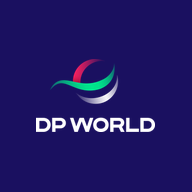
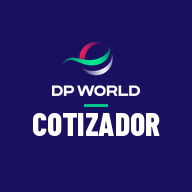
Íconos de app instalada iguales en todas (kit/pwa/generar_iconos.py)
Mismo fondo índigo, logo DP World, línea verde y nombre corto de la app en Barlow Condensed. Se sube la versión de caché del service worker para que tomen los íconos nuevos.

Claude-Session: https://claude.ai/code/session_016HvEN8KWBxrFoq9wy1oQZd

Changed region(s): [[0.1562, 0.2188, 0.8438, 0.7188]]

diff --git a/sw.js b/sw.js
@@ -2,7 +2,7 @@
 // Permite instalar la app y abrirla sin conexión. La app se pide primero a la red (siempre la versión publicada);
 // la copia guardada solo se usa sin conexión. Supabase nunca se guarda: los datos van siempre al servidor.
 // Al publicar un cambio grande, sube la versión de CACHE.
-const CACHE = 'cotizador-v1';
+const CACHE = 'cotizador-v2';
 const BASE = ['./', './index.html', './manifest.webmanifest', './dpw/dpw-shell.css', './dpw/dpw-shell.js', './dpw/dpw-escenas.js',
   './dpw/assets/dpworld-logo-fondo-claro.png', './dpw/pwa/icon-192.png', './dpw/pwa/icon-512.png'];
 

diff --git a/.claude/skills/linea-grafica/kit/pwa/generar_iconos.py b/.claude/skills/linea-grafica/kit/pwa/generar_iconos.py
@@ -1,0 +1,60 @@
+"""Íconos de app instalable, iguales para todas las apps DP World Panamá (skill linea-grafica).
+
+Mismo fondo índigo #1A1060, logo DP World en blanco, línea verde #00C389 y el nombre corto de la app
+en Barlow Condensed 800 mayúsculas. Todo dentro de la zona segura de los íconos «maskable».
+
+Uso:  python3 generar_iconos.py "HORAS" carpeta_destino
+Genera icon-512.png, icon-192.png, apple-touch-icon.png (180) y favicon-32.png.
+"""
+import os, sys
+from PIL import Image, ImageDraw, ImageFont
+
+AQUI = os.path.dirname(os.path.abspath(__file__))
+INDIGO, VERDE, BLANCO = (26, 16, 96), (0, 195, 137), (255, 255, 255)
+
+
+def icono(nombre, lado=512):
+    im = Image.new("RGBA", (lado, lado), INDIGO + (255,))
+    d = ImageDraw.Draw(im)
+    logo = Image.open(os.path.join(AQUI, "..", "assets", "dpworld-logo-fondo-oscuro.png")).convert("RGBA")
+    ancho = int(lado * 0.46)
+    logo = logo.resize((ancho, int(logo.height * ancho / logo.width)), Image.LANCZOS)
+    y_logo = int(lado * 0.22)
+    im.alpha_composite(logo, ((lado - ancho) // 2, y_logo))
+    # línea verde bajo el logo
+    y_lin = y_logo + logo.height + int(lado * 0.045)
+    d.rectangle([(lado - lado * 0.12) / 2, y_lin, (lado + lado * 0.12) / 2, y_lin + max(2, lado * 0.012)], fill=VERDE)
+    # nombre corto: el tamaño se ajusta para no salir de la zona segura (72 % del ancho)
+    fuente_ruta = os.path.join(AQUI, "barlow-condensed-800.woff")
+    t = int(lado * 0.17)
+    while True:
+        f = ImageFont.truetype(fuente_ruta, t)
+        caja = d.textbbox((0, 0), nombre, font=f)
+        if caja[2] - caja[0] <= lado * 0.72 or t < 8:
+            break
+        t -= 2
+    w = caja[2] - caja[0]
+    d.text(((lado - w) / 2 - caja[0], y_lin + int(lado * 0.05) - caja[1]), nombre, font=f, fill=BLANCO)
+    return im
+
+
+def generar(nombre, destino):
+    os.makedirs(destino, exist_ok=True)
+    grande = icono(nombre.upper(), 512)
+    grande.convert("RGB").save(os.path.join(destino, "icon-512.png"))
+    for archivo, lado in (("icon-192.png", 192), ("apple-touch-icon.png", 180)):
+        icono(nombre.upper(), lado).convert("RGB").save(os.path.join(destino, archivo))
+    # favicon: solo el fondo índigo y la línea verde con la inicial, legible a 32 px
+    fav = Image.new("RGB", (32, 32), INDIGO)
+    d = ImageDraw.Draw(fav)
+    f = ImageFont.truetype(os.path.join(AQUI, "barlow-condensed-800.woff"), 24)
+    c = d.textbbox((0, 0), nombre[0].upper(), font=f)
+    d.text(((32 - (c[2] - c[0])) / 2 - c[0], 3 - c[1] + 2), nombre[0].upper(), font=f, fill=BLANCO)
+    d.rectangle([9, 27, 23, 28], fill=VERDE)
+    fav.save(os.path.join(destino, "favicon-32.png"))
+
+
+if __name__ == "__main__":
+    if len(sys.argv) != 3:
+        sys.exit(__doc__)
+    generar(sys.argv[1], sys.argv[2])

diff --git a/.claude/skills/linea-grafica/SKILL.md b/.claude/skills/linea-grafica/SKILL.md
@@ -17,7 +17,7 @@ El kit está en `kit/` junto a este archivo:
 | `dpw-mapa.js` | Escena `mapa` (Panamá y rutas a 14 puertos). Solo la cargan las apps que la usan (35 KB). |
 | `plantilla.html` | Ejemplo completo y vista previa: `plantilla.html?escena=patio`, `&login=0`, `&tema=light`. |
 | `assets/` | Logos para fondo claro y oscuro. |
-| `pwa/` | `sw.js` y `manifest.webmanifest` de partida, íconos de la app (192, 512, Apple) y favicon. |
+| `pwa/` | `sw.js` y `manifest.webmanifest` de partida y `generar_iconos.py`, que crea los íconos de la app instalada (512, 192, Apple y favicon). |
 
 En cada app, el kit se copia a una carpeta `dpw/` servida junto al `index.html` (en Next.js: `public/dpw/` para los scripts y logos, y `src/app/dpw-shell.css` importado en `layout.tsx`; la cinta y el menú van como componentes React con las mismas clases, ver `alertas-calidad-app/src/components/AppHeader.tsx` y `Portada.tsx`). Si se cambia el kit, se cambia aquí en HubApp y se vuelve a copiar a cada repo; no se edita la copia de una sola app.
 
@@ -29,6 +29,7 @@ En cada app, el kit se copia a una carpeta `dpw/` servida junto al `index.html` 
 4. **Navegación en el menú desplegable.** Toda sección de la app va como fila del menú lateral (botón de tres rayas a la izquierda de la cinta). Las vistas especiales (Insights, Vista TV, Reportes, Configuración) también. La cinta solo lleva Instalar, Claro/Oscuro, el rol y Salir.
 5. **Tema claro y oscuro en todas**, con el botón de texto de la cinta (`Claro` / `Oscuro`, muestra a cuál cambia). Se guarda en `localStorage` con la clave común `dpw_tema` y vive en `<html data-theme="light|dark">`. Cada app elige su tema por defecto (Cotizador, Alertas y Control de Horas: claro; Inspección y Hub: oscuro). Las vistas de TV o piso de operación pueden quedarse oscuras, y la vista previa de documentos sigue siendo papel blanco.
 6. **Botón Instalar en todas**: en la cinta y como píldora en el login. Aparece solo cuando el navegador permite instalar; en iPhone explica el paso manual. Cada app lleva `manifest.webmanifest`, `sw.js` y los íconos de `kit/pwa/`.
+   **Ícono de la app instalada igual en todas**: fondo índigo `#1A1060`, logo DP World en blanco, línea verde `#00C389` y el nombre corto de la app en Barlow Condensed 800 (HORAS, RAMPAS, COTIZADOR, ALERTAS, PORTAL, LAST MILE). Se genera con `python3 kit/pwa/generar_iconos.py "NOMBRE" carpeta`; no se dibujan íconos a mano.
 7. **Tipografía y color**: Barlow (cuerpo) y Barlow Condensed 700–800 en mayúsculas (títulos, etiquetas, botones). Índigo `#1A1060` (hover `#2A1F8F`), verde `#00C389` para acentos, ámbar `#f5a20b` advertencia, rojo `#E8003D` error. Fondo oscuro `#0d0b28`, superficies `#16143d` / `#1e1c50`; en claro, fondo `#F2F3F8` y tarjetas blancas.
 
 ## Escenas por app
